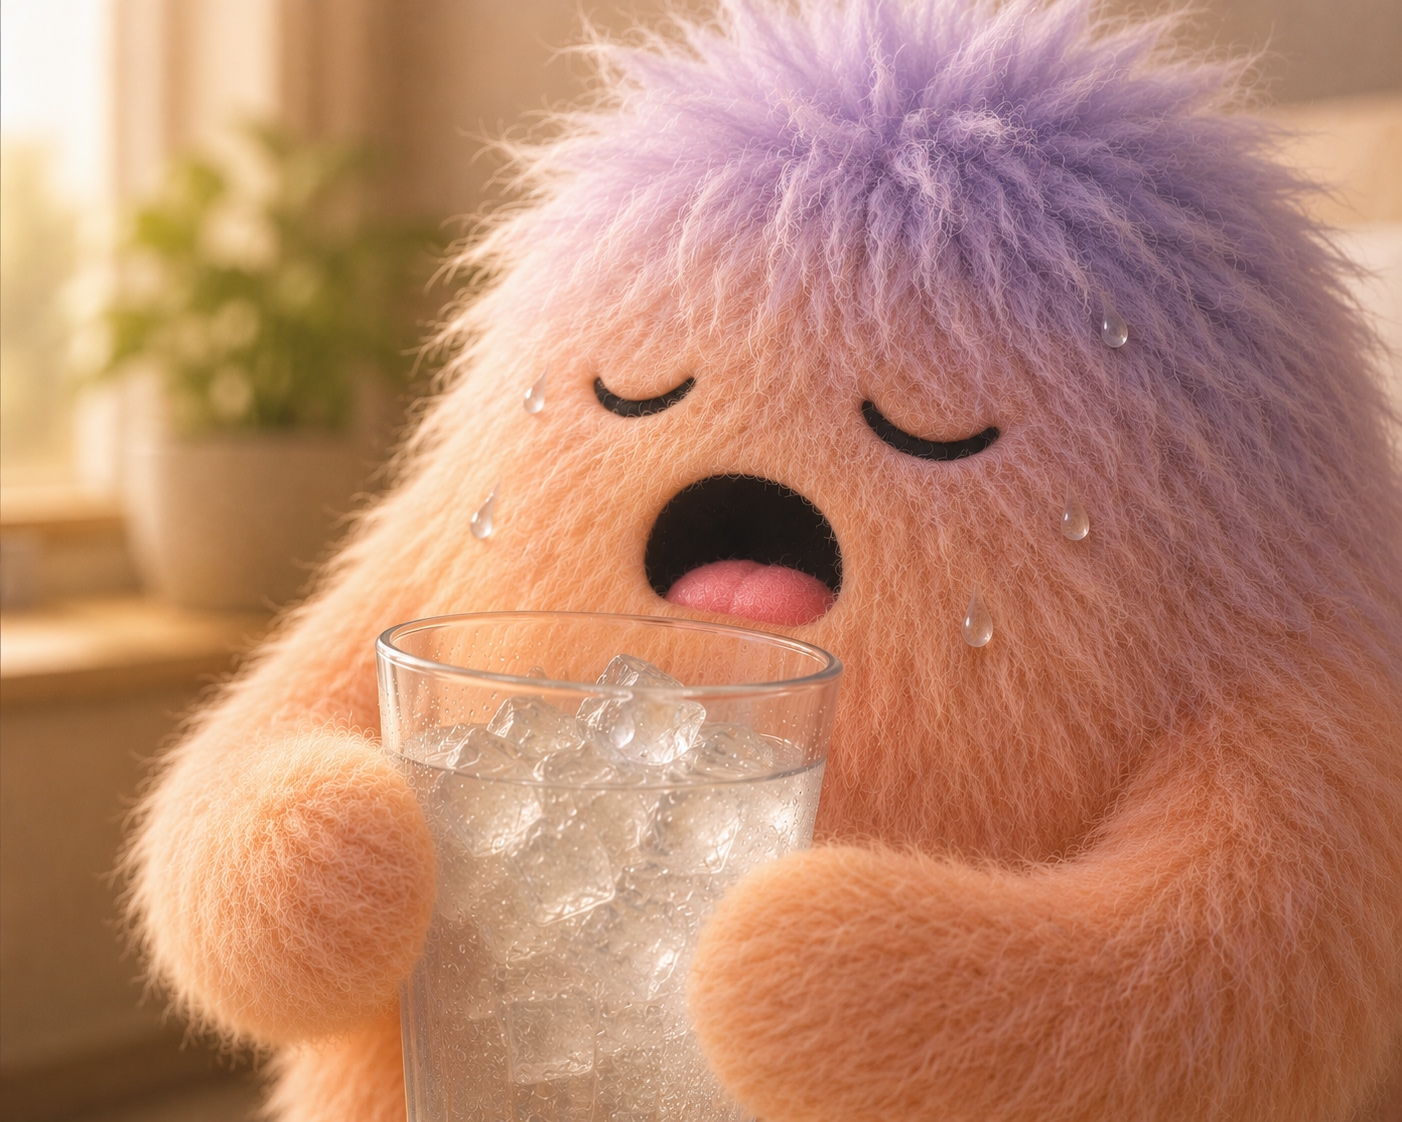
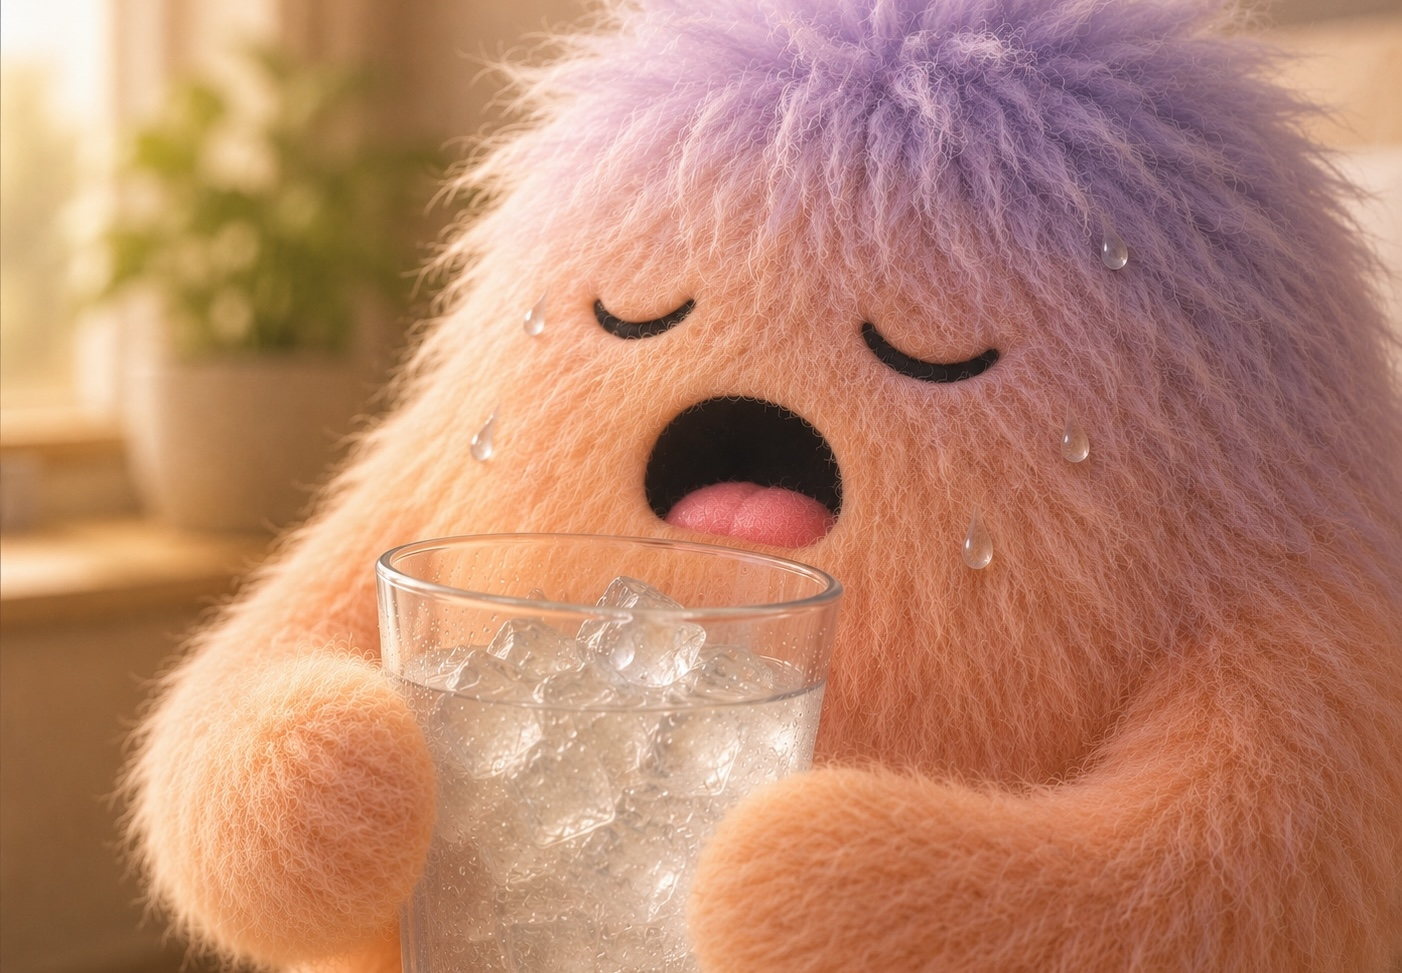
Add post Doomscrolling and your hrv what happens when you stop

diff --git a/_posts/2026-10-27-doomscrolling-and-your-hrv-what-happens-when-you-stop.md b/_posts/2026-10-27-doomscrolling-and-your-hrv-what-happens-when-you-stop.md
@@ -1,0 +1,64 @@
+---
+layout: post
+title: "Doomscrolling and Your HRV: What Happens When You Stop?"
+description: "Doomscrolling and HRV: what the studies show about scrolling, stopping, and your nervous system - including why HRV can dip when you cut back."
+date: 2026-10-27
+author: "Artie"
+keywords: ["doomscrolling and HRV", "doomscrolling and your nervous system", "does doomscrolling lower HRV", "screen time and HRV", "social media and heart rate", "how to stop doomscrolling", "smartphone use and stress"]
+image: "/images/2026-10-27.jpg"
+canonical_url: "https://harvee.app/blog/doomscrolling-and-your-hrv-what-happens-when-you-stop"
+tags: ["HRV", "Doomscrolling", "Screen Time", "Nervous System", "Stress"]
+show_reading_time: true
+published: true
+---
+
+Doomscrolling has a reputation as a villain for your nervous system. So here's an experiment that should have proved it.
+
+Austrian researchers asked 111 students to cut their total smartphone time - not just the doom - to two hours a day for three weeks, down from an average of about four and a half hours. The expected result showed up: less stress, fewer depressive symptoms, better sleep and well-being, all small to medium in size ([Pieh et al., 2025](https://doi.org/10.1186/s12916-025-03944-z)). Then a follow-up analysis checked overnight [HRV](/blog/how-to-interpret-apple-watch-heart-rate-variability) from the students' Fitbits, and the unexpected result showed up. It had dipped during the cutback ([Dale et al., 2025](https://doi.org/10.1080/21642850.2025.2546376)).
+
+Feeling better, HRV lower. If the phone was straining their nervous systems, putting it down should have calmed them. The likely explanation says something useful about what scrolling does to your body, and about how to read your own numbers.
+
+## Why Does Your Heart Rate Slow Down While You Scroll?
+
+Start with what scrolling itself does. A Durham University team connected 54 regular Instagram users to a chest ECG and finger sweat sensors, then ran three 15-minute phases: reading a neutral news article, scrolling Instagram, and going back to reading ([Wadsley & Ihssen, 2025](https://doi.org/10.1016/j.chb.2025.108597)).
+
+During Instagram, heart rate dropped about three beats per minute below the reading baseline while the sweat response rose markedly. A slowing heart with sweaty fingertips isn't the classic stress signature, which is a racing heart. The researchers read the combination as absorbed, reward-driven attention.
+
+The stress-like part came at the end. When participants had to stop and go back to reading, with Instagram notifications arriving on a phone they weren't allowed to touch, heart rate ticked back up and the sweat response rose further. They also rated themselves as more stressed, more anxious, and more eager to check the app than when they started. The physiological pattern looked the same in people with high and low problematic-use scores.
+
+It was a small, student sample, so treat it as a clue. But it flips the usual story. The scroll is absorbing. The stop is what feels like stress. None of that is a character flaw - it's a nervous system responding to something rewarding.
+
+## What Changes When the Feed Is Bad News?
+
+Instagram isn't doom. Add threat, and the body notices.
+
+In a cross-national experiment, about 1,100 people in 17 countries watched BBC World News clips with sensors on their fingers. On average, negative stories drew a bigger sweat response than positive ones, along with higher heart rate variability during the clip, a pattern that fits heightened attention and arousal ([Soroka et al., 2019](https://doi.org/10.1073/pnas.1908369116)). The effect varied a lot between people, and not every country showed it.
+
+A note for HRV watchers: a higher reading during a tense clip doesn't mean calm. It's a snapshot of reactivity, and it answers a different question than the overnight recovery number your wearable reports.
+
+Dose matters too. After the 2013 Boston Marathon bombings, researchers surveyed 4,675 US adults. People who reported six or more hours a day of bombing-related media in the following week had more acute stress symptoms than people who had actually been at or near the bombings, even after adjusting for prior mental health ([Holman et al., 2014](https://doi.org/10.1073/pnas.1316265110)). That's self-reported, correlational, and an extreme dose. The direction is still hard to ignore.
+
+And it loops. A three-year follow-up found that heavy bombing coverage predicted stress symptoms months later, those symptoms predicted more worry about future events, and that worry predicted more media use, and more stress, when the next tragedy hit a year later ([Thompson et al., 2019](https://pmc.ncbi.nlm.nih.gov/articles/PMC6469939)). Distress drives the scroll, and the scroll feeds the distress. That's the "doom" in doomscrolling.
+
+Both studies are about coverage of mass-violence events, not feeds in general. They're still the best data we have on dose and loop.
+
+## Does Doomscrolling Actually Lower Your HRV?
+
+Back to the Austrian trial. The wearable analysis covered the 45 students with complete HRV data, so it's an early clue, not a verdict. Still, overnight HRV was significantly lower during the cutback than at baseline, and in exploratory analyses it tracked two things: how much people craved their phones, and how well they slept ([Dale et al., 2025](https://doi.org/10.1080/21642850.2025.2546376)). The authors suggest a response akin to withdrawal: take away a rewarding habit, and your body can register a stressor even while you report feeling better. They also note that the mental-health gains outweighed the cost.
+
+That fits the lab data: scrolling is absorbing, and stopping is the arousing part. It's also a clean example of HRV and mood pointing in opposite directions, the gap we unpack in [why your stress level doesn't match how you feel](/blog/why-your-stress-level-doesn-t-match-how-you-feel). And because craving and sleep quality both moved with HRV, your [overnight sleep data](/blog/what-your-sleep-data-really-means-for-stress) is worth reading alongside it.
+
+So, does doomscrolling lower your HRV? Honestly, nobody has shown it directly. These studies measured heart rate, sweat response, symptoms, and HRV during a cutback. None tracked what a night of doomscrolling does to tomorrow morning's number. It's a reasonable hypothesis, not an established fact.
+
+## How to Scroll Less Without Fighting Your Nervous System
+
+- **Plan the exit, not just the limit.** In the lab, stopping was the hard part. Decide what happens in the first two minutes after you put the phone down: stand up, change rooms, start the kettle. If you still feel wired, slow paced breathing is a well-studied way to nudge your body toward calm - [here's which pattern fits when](/blog/box-breathing-vs-resonance-vs-4-7-8-which-helps-your-hrv). (The Instagram study didn't test fixes, so this is a logical next step, not a proven one.)
+- **Cap the doom, not just the minutes.** The strongest links to stress involved heavy, repeated exposure to coverage of bad events. Choose one or two news check-ins a day, and notice when the urge to check rises with your worry. That's the loop at work.
+- **Expect a rough patch.** If you cut back and feel restless, or your wearable looks worse for a while, that matches what the trial saw. Judge it over weeks, with sleep and mood alongside, not off one morning. And plan for drift: by follow-up, the cutback group's screen time had crept back toward where it started ([Pieh et al., 2025](https://doi.org/10.1186/s12916-025-03944-z)).
+- **Run your own test.** Compare overnight HRV and sleep after evenings you scrolled late with evenings you didn't, against [your own baseline](/blog/what-your-wearable-s-hrv-number-actually-means). Keep alcohol and caffeine steady so you're testing the phone, not the nightcap.
+
+Tonight's experiment: pick a stop time, decide what you'll do in the first two minutes after it, and see what your overnight numbers say tomorrow. Harvee won't tell you which headline got to you. It can show how your body handled the evening, so you're not guessing.
+
+---
+
+*Curious what your body has been trying to tell you? Download Harvee to spot stress patterns, understand recovery, and make calmer day-to-day decisions.*

diff --git a/BLOG_PROMPT.md b/BLOG_PROMPT.md
@@ -19,8 +19,8 @@ You are the content writer for Harvee, an iOS stress-tracking app (Apple Watch +
 
 # YOUR TASK
 Write ONE complete blog post about:
-TOPIC: "- Breathing exercises for HRV: a practical, science-backed guide (box, resonance, 4-7-8)"
-TODAY'S DATE: [2026-09-26]
+TOPIC: "Doomscrolling / screen time and nervous system activation"
+TODAY'S DATE: [2026-10-27]
 
 Output a single Markdown file with Jekyll front matter, ready to paste into _posts/. Nothing else before or after the file except a short "SEO notes" block at the very end (see OUTPUT).
 
@@ -123,6 +123,7 @@ Link to these by /blog/<slug>. Don't re-explain a topic another post owns — li
 - harvee-is-an-apple-design-awards-finalist-here-s-what-that-means-to-me — ADA finalist announcement
 - why-summer-heat-quietly-strains-your-hrv-even-at-rest - how summer heat / temperature affects HRV and recovery (seasonal)
 - caffeine-and-your-hrv-is-the-90-minute-rule-real - what research on caffeine, HRV, and sleep timing actually shows
+- box-breathing-vs-resonance-vs-4-7-8-which-helps-your-hrv - what the controlled research shows about each one
 
 # TOPIC BACKLOG (use if I haven't given a specific topic, pick the highest-value uncovered one)
 - What's a normal HRV by age? (and why the comparison trap matters — coordinate with what-your-wearable-s-hrv-number-actually-means)
@@ -135,7 +136,6 @@ Link to these by /blog/<slug>. Don't re-explain a topic another post owns — li
 - Perimenopause/menopause and HRV
 - Overtraining: how your data warns you before performance drops
 - Resting heart rate: what's "good" and what trends mean
-- Doomscrolling / screen time and nervous system activation
 
 # OUTPUT
 1) The complete Markdown file (front matter + body), ready to save as:
